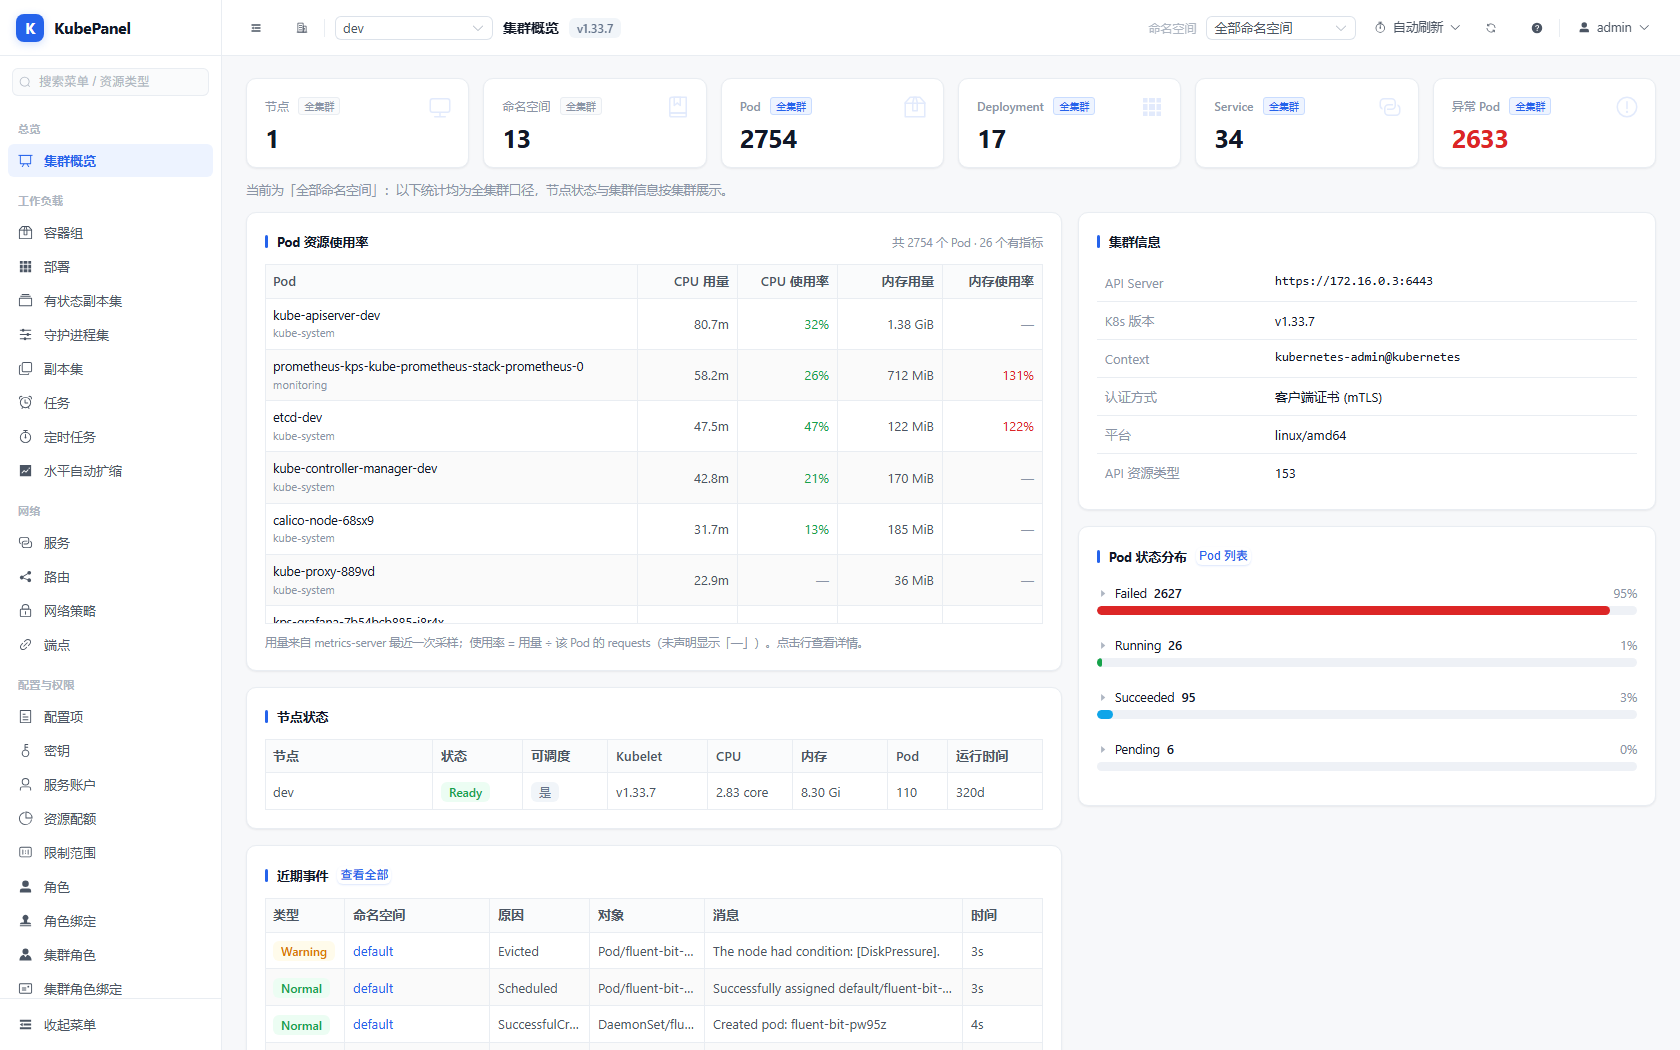
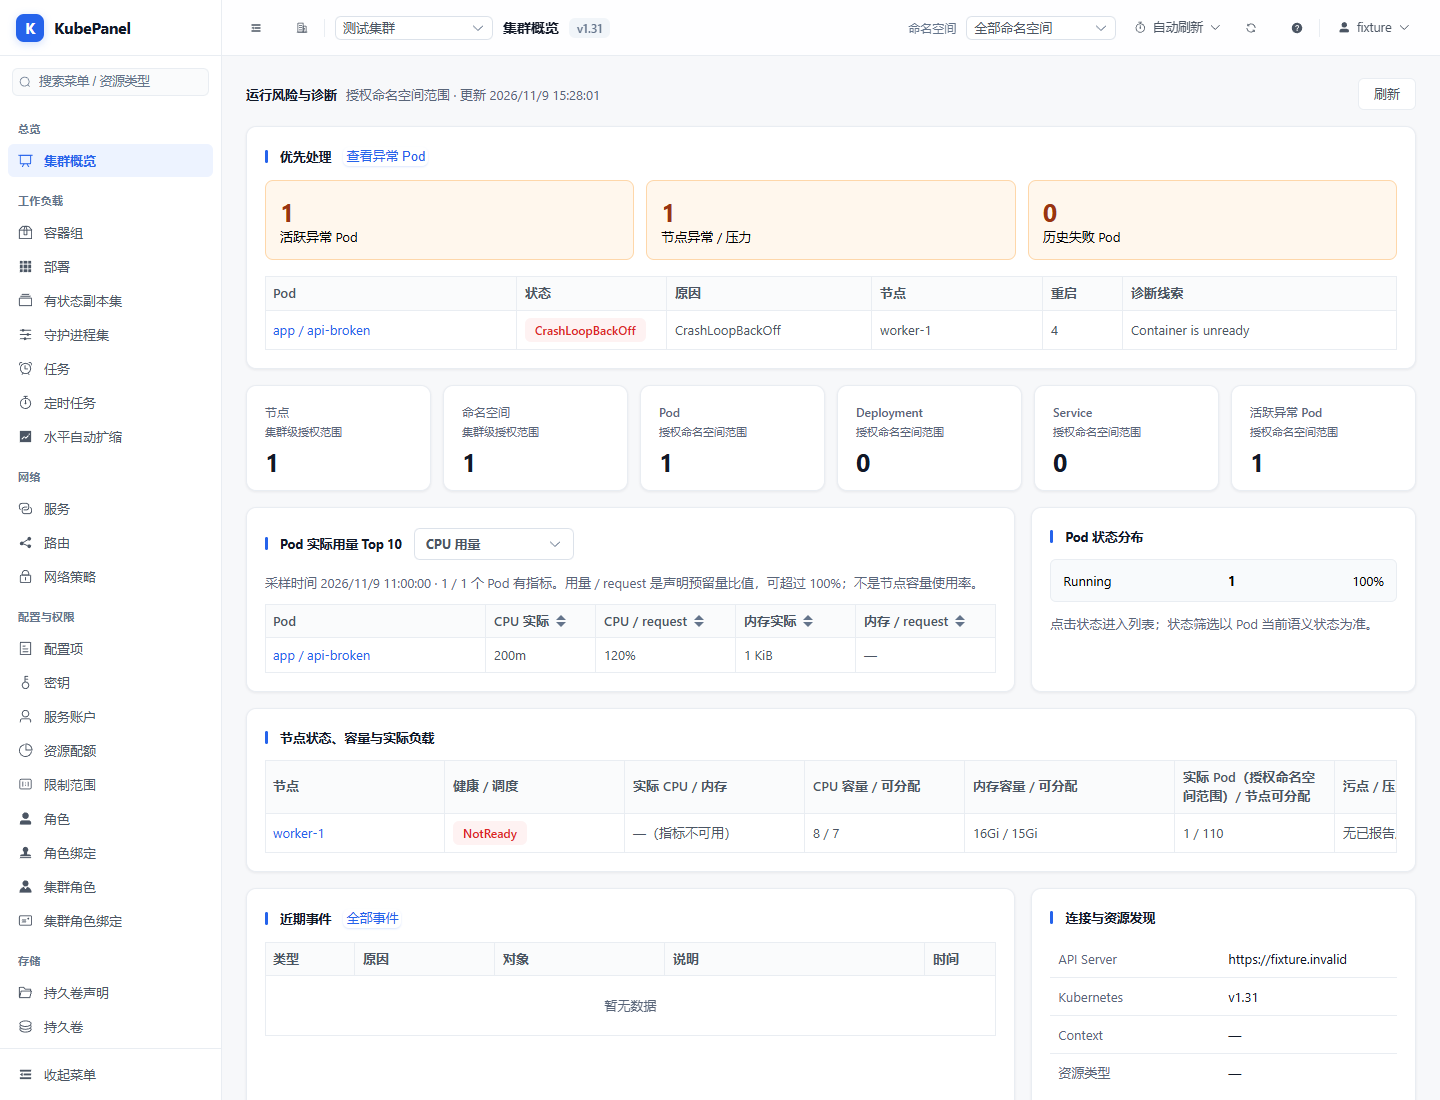
fix(release): publish verified source pointer with rollback

diff --git a/server/src/auth.js b/server/src/auth.js
@@ -146,4 +146,3 @@ export function activeStreamAccount(account) {
   return boundAccount(sessionById(account.sessionId))
 }
 export function verifyWsToken(url){return !!accountFromWsToken(url)}
-

diff --git a/deploy/test_release.py b/deploy/test_release.py
@@ -50,7 +50,7 @@ print(json.dumps({'revision':os.environ['FAKE_REVISION'],'sourceManifestSha256':
 
 @unittest.skipUnless(os.name == 'posix' and shutil.which('bash'), 'Linux deployment behavior test')
 class ReleaseTests(unittest.TestCase):
-    def run_release(self, fail=False, existing=True, rename_fail=False, hook_fail=False, external_env=False):
+    def run_release(self, fail=False, existing=True, rename_fail=False, hook_fail=False, external_env=False, source_link=False, publish_fail=False):
         with tempfile.TemporaryDirectory() as tmp:
             root = pathlib.Path(tmp)
             source, base, commands, state = [root / name for name in ['source', 'base', 'bin', 'state']]
@@ -64,6 +64,13 @@ class ReleaseTests(unittest.TestCase):
             (base / '.env').write_text('DASHBOARD_PASSWORD=never-log-this\n')
             selected_env = root / 'private.env' if external_env else base / '.env'
             selected_env.write_text('DASHBOARD_PASSWORD=never-log-this\n')
+            old_source = base / 'old-source'
+            old_source.mkdir()
+            (old_source / 'preserved.txt').write_text('old source')
+            if source_link:
+                (base / 'app').symlink_to(old_source, target_is_directory=True)
+            else:
+                shutil.copytree(old_source, base / 'app')
             if existing:
                 (state / 'kubepanel').write_text('true')
             sha = 'a' * 40
@@ -75,6 +82,10 @@ class ReleaseTests(unittest.TestCase):
             hook = root / 'candidate-check'
             hook.write_text('#!/bin/sh\nprintf "%s" "$1" > "$FAKE_STATE/hook-url"\nexit ' + ('1' if hook_fail else '0') + '\n')
             hook.chmod(0o700)
+            if publish_fail:
+                mover = commands / 'mv'
+                mover.write_text('#!/bin/sh\ncase "$*" in *".app-next-"*) exit 1;; esac\nexec /bin/mv "$@"\n')
+                mover.chmod(0o700)
             env = {**os.environ, 'PATH': str(commands) + os.pathsep + os.environ['PATH'], 'BASE_DIR': str(base), 'BACKUP_ROOT': str(root / 'backups'), 'ENV_FILE': str(selected_env), 'CANDIDATE_CHECK': str(hook), 'FAKE_STATE': str(state), 'FAKE_REVISION': sha, 'FAKE_MANIFEST': checksum, 'FAIL_PRODUCTION': str(int(fail)), 'FAIL_RENAME': str(int(rename_fail))}
             process = subprocess.run(['bash', str(source / 'deploy' / 'release.sh'), str(source)], env=env, text=True, capture_output=True, timeout=40)
             self.assertNotIn('never-log-this', process.stdout + process.stderr)
@@ -86,8 +97,9 @@ class ReleaseTests(unittest.TestCase):
                 self.assertTrue(saved, 'Selected external environment must be backed up')
                 self.assertEqual(saved[0].read_text(), 'DASHBOARD_PASSWORD=never-log-this\n')
                 self.assertEqual(saved[0].stat().st_mode & 0o777, 0o600)
-            if fail or rename_fail or hook_fail:
+            if fail or rename_fail or hook_fail or publish_fail:
                 self.assertNotEqual(process.returncode, 0)
+                self.assertEqual((base / 'app' / 'preserved.txt').read_text(), 'old source')
                 if existing:
                     self.assertEqual((state / 'kubepanel').read_text(), 'true')
                     if fail:
@@ -104,6 +116,11 @@ class ReleaseTests(unittest.TestCase):
                 production = next(event for event in events if event[0] == 'run' and event[event.index('--name') + 1] == 'kubepanel')
                 self.assertIn(str(base / 'data') + ':/app/data', production)
                 self.assertEqual((state / 'hook-url').read_text(), 'http://127.0.0.1:18080')
+                self.assertTrue((base / 'app').is_symlink())
+                self.assertEqual((base / 'app').resolve(), base / 'releases' / sha)
+                self.assertEqual(manifest.verify(base / 'app'), checksum)
+                if not source_link:
+                    self.assertEqual(next(base.glob('source-rollback-*')).joinpath('preserved.txt').read_text(), 'old source')
             if hook_fail:
                 self.assertEqual((state / 'hook-url').read_text(), 'http://127.0.0.1:18080')
                 self.assertFalse(any(event[0] == 'rename' for event in events))
@@ -125,6 +142,12 @@ class ReleaseTests(unittest.TestCase):
 
     def test_failed_candidate_hook_does_not_promote_production(self):
         self.run_release(hook_fail=True)
+
+    def test_subsequent_release_atomically_replaces_source_symlink(self):
+        self.run_release(source_link=True)
+
+    def test_failed_source_publication_restores_original_directory_and_container(self):
+        self.run_release(publish_fail=True)
 
 
 if __name__ == '__main__':

diff --git a/docs/deployment.md b/docs/deployment.md
@@ -2,7 +2,7 @@
 
 ## 目录与版本
 
-运行数据固定放在 `/opt/kubepanel/data`、`/opt/kubepanel/clusters`；源码可在 `/opt/kubepanel/app`。正式发布保留不可变 `/opt/kubepanel/releases/<完整Git SHA>`。备份默认在 `/opt/kubepanel-backups/<UTC时间>-<随机后缀>`，不在源码、构建目录或运行数据目录内。
+运行数据固定放在 `/opt/kubepanel/data`、`/opt/kubepanel/clusters`；`/opt/kubepanel/app` 始终指向当前已验证的不可变 `/opt/kubepanel/releases/<完整Git SHA>`。首次发布将原 app 目录保留为私有 `source-rollback-<UTC>-<PID>`，后续原子切换符号链接。备份默认在 `/opt/kubepanel-backups/<UTC时间>-<随机后缀>`，不在源码、构建目录或运行数据目录内。
 
 每个纯源码包含 `RELEASE`（完整 40 位 Git revision）和 `SHA256SUMS`（所有源文件的 SHA-256，排除这两个元数据文件）。`manifest.py verify` 同时拒绝文件变化、缺失、额外文件及路径穿越。服务器没有 `.git` 也可核验。不得手工 `docker exec` 修改代码。
 
@@ -39,7 +39,7 @@ sudo BASE_DIR=/opt/kubepanel CONTAINER=kubepanel bash deploy/backup.sh
 
 ## 发布脚本
 
-Linux 主机需要 root、Docker（含 BuildKit）、Bash、Python 3.8+、curl、flock；服务器能访问锁定依赖的 npm 仓库及基础镜像。环境文件推荐放在 `/opt/kubepanel/.env`，默认也兼容现有 `/opt/kubepanel/app/.env`，或通过 `ENV_FILE` 显式指定。首次部署显式设置强密码；数据卷属主为 10001。
+Linux 主机需要 root、Docker（含 BuildKit）、Bash、Python 3.8+、curl、flock；服务器能访问锁定依赖的 npm 仓库及基础镜像。环境文件放在 `/opt/kubepanel/.env`，或通过 `ENV_FILE` 指定源码目录之外的私有文件。旧配置若在 app/.env，首次升级先私密备份并复制到 base/.env；发布器拒绝把仍依赖 app 内配置的实例切换到纯源码链接。首次部署显式设置强密码；数据卷属主为 10001。
 
 ```bash
 sudo BASE_DIR=/opt/kubepanel ENV_FILE=/opt/kubepanel/.env \

diff --git a/README.md b/README.md
@@ -4,6 +4,8 @@
 
 ![KubePanel 集群概览](deploy/screenshots/console-overview.png)
 
+界面示例使用测试数据，展示异常优先级、资源用量与节点诊断。
+
 ## 功能与边界
 
 - 多集群导入、切换、连通性检查，API Discovery 驱动内置资源和 CRD 浏览。
